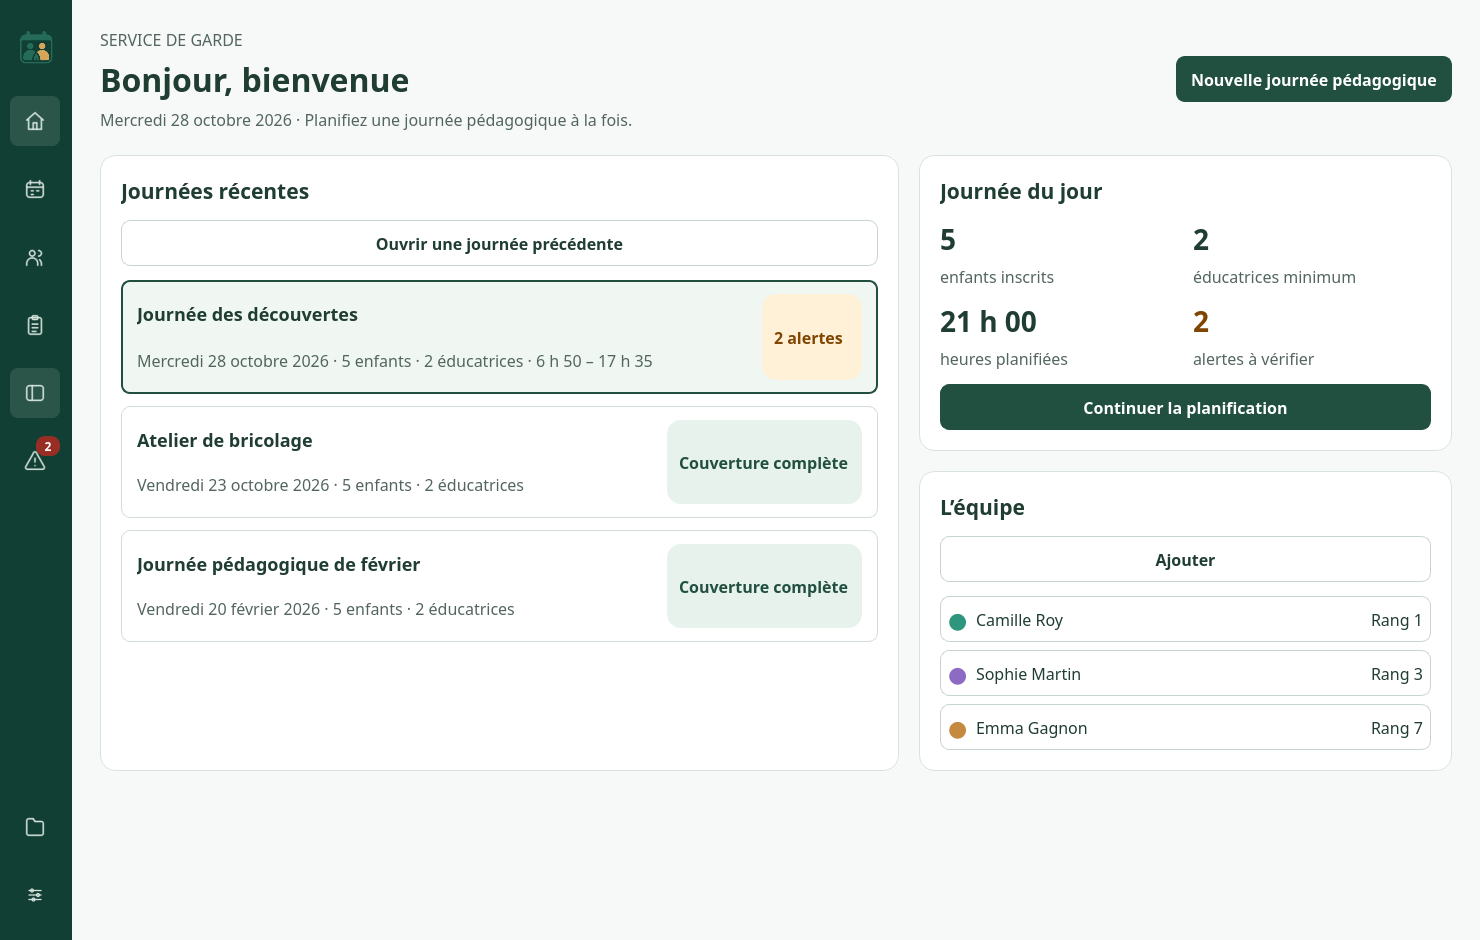
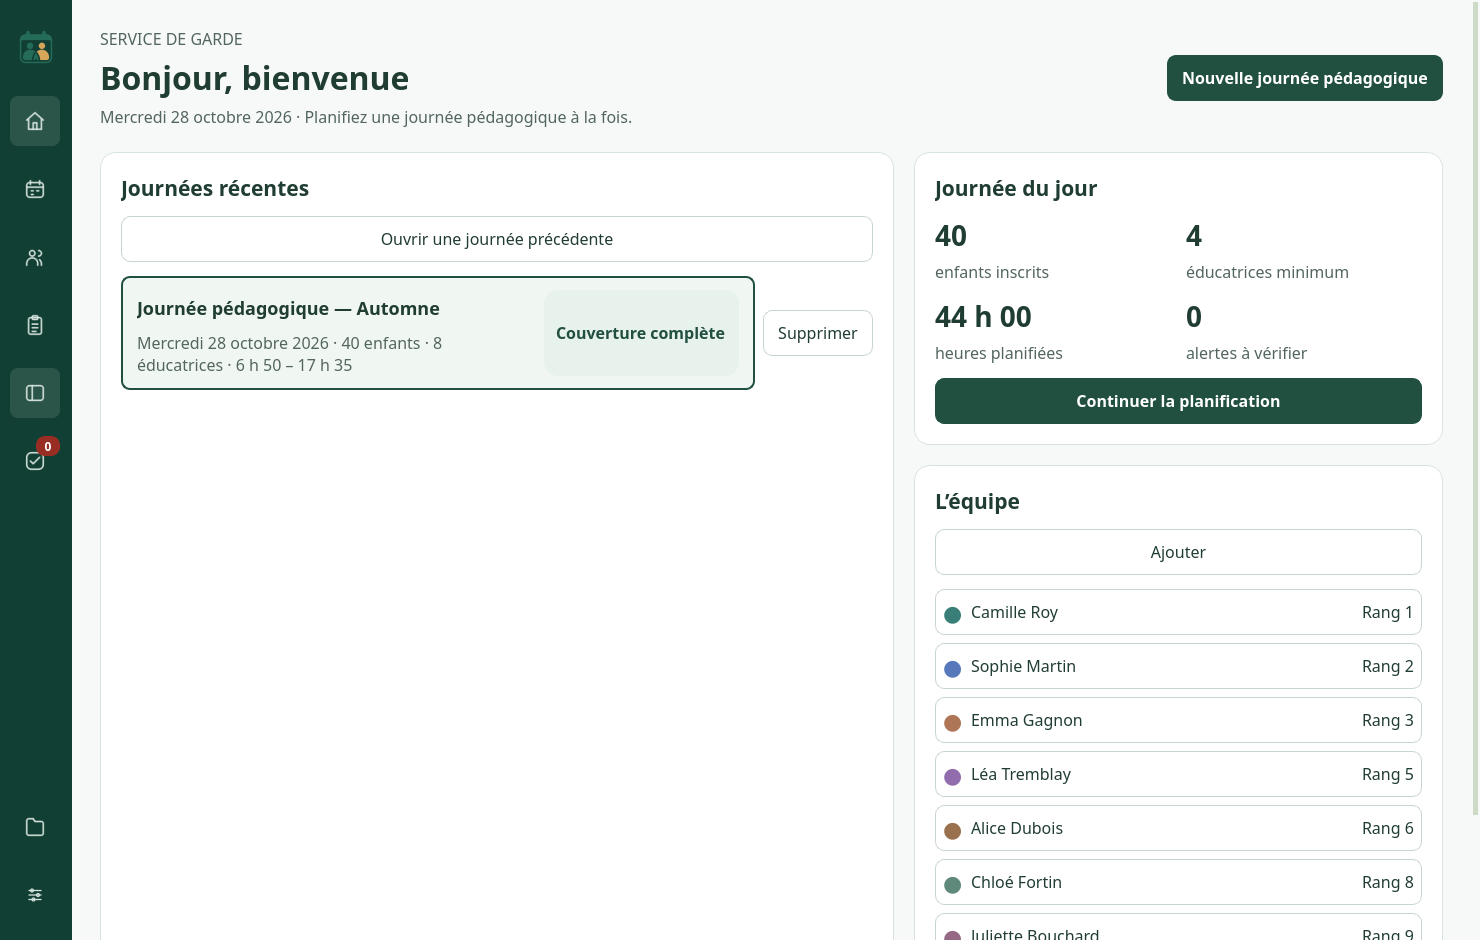
10 — Préparer la version 0.3.2, ses notes et ses aperçus conformes

diff --git a/gardeplan/__init__.py b/gardeplan/__init__.py
@@ -1,2 +1,2 @@
 """Planificateur — Service de garde : application de bureau locale."""
-__version__ = "0.3.1"
+__version__ = "0.3.2"

diff --git a/docs/GUIDE.md b/docs/GUIDE.md
@@ -15,7 +15,7 @@ L’équipe reste à gauche et le calendrier occupe le reste de l’écran. Les 
 1. Choisissez la **date exacte** avec les flèches ou le champ de date. Chaque date possède son propre horaire, même si deux journées tombent dans la même semaine.
 2. Cliquez sur le **+ de L’équipe**. Une couleur encore inutilisée est proposée automatiquement ; vous pouvez la changer dans le profil. Choisissez le **rang de 1 à 11** : le rang 1 est le plus ancien, et des rangs peuvent rester libres (1, 4, 9, par exemple). Aucun profil n’est renuméroté automatiquement.
 3. Saisissez les heures cibles, garanties et maximales **pour cette journée**. Un objectif vide signifie « Aucun objectif défini ». Précisez les disponibilités et absences si nécessaire.
-4. Cliquez sur **Inscriptions** et indiquez le nombre d’enfants. Le besoin est calculé pour le service entier. Le nom se modifie directement dans l’en-tête de la grille. Le minimum de deux éducatrices et le ratio configuré restent contrôlés.
+4. Cliquez sur **Inscriptions** et indiquez le nombre d’enfants. Le besoin additionne les minimums et ratios de chaque groupe. Le nom se modifie directement dans l’en-tête de la grille. Le minimum de deux éducatrices et le ratio configuré restent contrôlés.
 5. Ajoutez les quarts ou demandez une proposition automatique. L’interface gère uniquement les horaires.
 
 Une nouvelle date reprend les profils et paramètres utiles. Ses inscriptions et quarts restent vides ; les absences de l’ancienne date ne sont pas recopiées. Pour reprendre aussi un horaire complet, utilisez **Dossier → Dupliquer cette journée** et choisissez une date vide.
@@ -32,7 +32,7 @@ Un quart verrouillé est conservé pendant la génération ; déverrouillez-le d
 
 ## Ouverture, fermeture et relève
 
-Pour une journée ouverte de 7 h à 17 h 30, une éducatrice peut suffire de 6 h 50 à 7 h et de 17 h 20 à 17 h 35. Entre ces plages, prévoyez au moins deux éducatrices. Le ratio reste applicable jusqu’au départ des enfants : avec plus de vingt enfants présents, une seule éducatrice ne suffit pas. Les dix minutes de préparation avant l'ouverture et les cinq minutes après la fermeture sont des temps de présence rémunérés. Ils ne constituent pas de la couverture d'enfants.
+Pour une journée ouverte de 7 h à 17 h 30, chaque groupe exige au moins deux éducateurs de 6 h 50 à 17 h 35. Les dix minutes de préparation avant l’ouverture et les cinq minutes de fermeture sont des temps de présence rémunérés, distincts de la couverture des enfants. Pendant l’accueil, le besoin d’un groupe est le maximum de deux et du nombre d’enfants divisé par son ratio, arrondi au supérieur. Les pauses doivent être remplacées et les relèves comporter quinze minutes communes.
 
 Pour une relève à 12 h 30, l'éducatrice entrante peut commencer sa présence à 12 h 15 avec quinze minutes de préparation avant sa couverture de 12 h 30. L'éducatrice sortante reste présente pendant ces quinze minutes. Le besoin de couverture du groupe doit rester satisfait, même pendant les pauses et les relèves.
 
@@ -101,7 +101,7 @@ Toutes les éducatrices actives disposent d’une colonne, sans défilement hori
 
 **Vérifier (N)** ouvre les alertes. Cliquer sur une alerte ou l’activer au clavier sélectionne sa plage et fait défiler la grille et la bande de ratio. La validation continue même lorsque le panneau est fermé. Avec une journée valide, le panneau indique **Aucune alerte**.
 
-Les deux poignées de chaque quart sont visibles. Les pauses et le dîner indiquent leurs heures, leur durée et leur rémunération. Une pause payée compte dans le total rémunéré mais n’assure jamais la couverture des enfants. Un dépassement d’objectif est orange ; celui d’un maximum obligatoire est rouge. Un libellé précise toujours la situation.
+Les deux poignées de chaque quart sont visibles. Les pauses indiquent leurs heures, leur durée et leur rémunération. Les dîners restent masqués dans les blocs ; leur incidence sur la couverture et la paie est conservée. Une pause payée compte dans le total rémunéré mais n’assure jamais la couverture des enfants. Un dépassement d’objectif est orange ; celui d’un maximum obligatoire est rouge. Un libellé précise toujours la situation.
 
 ## Annuler et rétablir
 
@@ -150,28 +150,16 @@ Les inscriptions réutilisent la préparation par groupes de vingt enfants,
 en conservant les identifiants et les affectations existantes. Les périodes des
 groupes devenus inutiles sont fermées ; aucun quart n’est supprimé. La taille de
 préparation des groupes ne constitue pas un ratio réglementaire. Les règles de
-couverture globales, les heures d’ouverture et de fermeture ne sont pas changées
-par cette révision de la grille.
+couverture sont désormais appliquées à chaque groupe ; les heures d’ouverture et de fermeture sont conservées.
 
 
-## Règles de la version 0.3.1
+## Règles de la version 0.3.2
 
-Le minimum de présence est de **1** de 6 h 50 à 7 h, de **2** de 7 h à
-17 h 20, puis de **1** de 17 h 20 à 17 h 35. Pendant l’accueil, le besoin est
-le maximum de ce minimum et du nombre d’enfants divisé par le ratio, arrondi
-au supérieur. Avec 21 enfants encore présents à 17 h 20, deux éducatrices
-restent nécessaires. Les effectifs variables se règlent dans les périodes des
-groupes (Réglages → Organisation → Groupes des affectations).
+Chaque groupe conserve au moins deux éducateurs présents pendant toute son ouverture, avec deux personnes également pendant la préparation et la fermeture de ses locaux. Un ratio exigeant plus de personnel ou un minimum configuré plus élevé reste obligatoire. Aucune pause, même payée, ne couvre les enfants. Chaque relève conserve quinze minutes communes.
 
-Les dix minutes de préparation et les cinq minutes de fermeture restent
-rémunérées et distinctes de la couverture. Les pauses, même payées, ne couvrent
-jamais les enfants. Les relèves conservent leurs quinze minutes communes.
-Si les heures d’ouverture/fermeture changent, les plages allégées suivent
-l’ouverture aux enfants et les quinze dernières minutes de présence.
+Deux groupes ouverts toute la plage exigent au moins quatre personnes simultanées. Avec une limite individuelle de huit heures, quatre personnes ne suffisent pas pour couvrir la journée entière : prévoyez une équipe plus grande ou corrigez les périodes réellement ouvertes. Le logiciel signale cette impossibilité au lieu de générer un horaire invalide.
 
-Les anciens brouillons passent aux nouvelles règles et sont enregistrés comme
-une nouvelle version. Les anciens horaires publiés/archivés restent inchangés ;
-une modification ou une duplication crée un brouillon aux règles actuelles.
+Les anciennes versions publiées/archivées conservent les règles historiques ; les versions de travail, nouvelles journées et duplications adoptent les règles actuelles.
 
 La barre latérale présente Planning, Équipe, Inscriptions, Ratio et Vérification.
 Dossier et Réglages sont placés en bas. Annuler/Rétablir sont sur la ligne du
@@ -208,3 +196,14 @@ avant le retour à l’accueil.
 Les cartes s’empilent sur les petites fenêtres ; la page défile verticalement.
 Les notes de chaque version sont conservées dans [CHANGELOG.md](../CHANGELOG.md)
 et reprises dans les Releases GitHub.
+
+
+## Attribution des quarts et suppression — version 0.3.2
+
+Le générateur traite tous les groupes sans les fusionner. Chaque groupe doit respecter son ratio (initialement 1/20). Deux éducateurs minimum sont requis dans chaque groupe pendant toute sa plage, préparation et fermeture incluses ; un minimum de groupe supérieur reste applicable. Si des groupes demeurent ouverts avec des enfants à la fin de la journée, leur couverture reste nécessaire.
+
+La recherche attribue d’abord des heures au plus grand nombre de personnes possible, sans modifier les contraintes obligatoires. Elle limite ensuite les heures inutiles, puis privilégie le rang 1, suivi des rangs suivants : quarts continus, plus d’heures, fin plus tôt. Les rangs n’ont pas besoin d’être consécutifs. Les horaires verrouillés et les disponibilités peuvent empêcher l’ordre idéal ; les personnes sans heures sont nommées dans la proposition. Une recherche interrompue signale que les préférences ne sont pas toutes prouvées optimales.
+
+Le maximum quotidien est de 8 h rémunérées, tous les quarts cumulés. Les buffers payés et les pauses payées comptent ; les pauses non payées sont déduites. Un maximum individuel plus bas reste obligatoire. Un dépassement manuel est une erreur rouge et empêche de valider/publier ; le brouillon demeure sauvegardable pour correction.
+
+Sur l’accueil, **Supprimer** demande confirmation puis retire la journée de la liste. Ses anciennes versions et les profils restent conservés. La suppression survit aux sauvegardes et à leur import. Pour reprendre cette date, créez une nouvelle journée à cette date, ou restaurez une version dans l’historique du dossier. La migration au format SQLite 3 crée une copie de sécurité avant toute modification du format ; ne remplacez pas le dossier `donnees` lors d’une mise à jour.

diff --git a/docs/LIVRAISON_0_3_2.md b/docs/LIVRAISON_0_3_2.md
@@ -1,0 +1,83 @@
+# Livraison 0.3.2
+
+## Changements
+
+1. Plafond de 8 h rémunérées par personne et par jour : validation, génération, compteurs et formulaires. Les versions historiques conservent leurs règles ; les brouillons adoptent les règles actuelles.
+2. Génération de tous les groupes, sans fusion dans le solveur. Le minimum de deux éducateurs et le ratio propre à chaque groupe restent obligatoires ; les alertes distinguent les groupes et le résumé signale aussi une mauvaise répartition malgré un total suffisant.
+3. Retrait des annotations superposées à la grille vide.
+4. Attribution d’heures au plus grand nombre de personnes possible ; limitation des heures inutiles ; priorité aux rangs 1, 2, etc. pour les quarts continus, davantage d’heures et une fin plus tôt. Les profils équivalents reçoivent obligatoirement les horaires dans cet ordre, même si la recherche n’achève pas toutes ses optimisations.
+5. Bouton Supprimer pour chaque journée de l’accueil. Confirmation, historique conservé, suppression persistante dans les sauvegardes et accès aux profils après suppression de la dernière journée.
+6. Scénarios de vérification adaptés au nouveau plafond ; diagnostic du logiciel compilé étendu aux groupes, à l’équipe, à l’ordre des rangs et aux huit heures.
+
+7. Correction de la date devenue invisible avec NoButtons et un style Qt 6.12.
+8. Application de la dernière précision : deux éducateurs par groupe à tout moment, y compris préparation/fermeture ; aperçu Inscriptions aligné sur ce calcul.
+
+9. Amorçage du solveur par une proposition vérifiée dans le cas de deux équipes continues par groupe ; le budget d’heures de la meilleure proposition reste conservé si une phase dépasse son délai.
+
+Chaque étape correspond à un commit. La préparation de la release et la consignation des preuves sont des commits distincts.
+
+## Hypothèses retenues
+
+- « 8 h par jour » signifie 480 minutes rémunérées cumulées : buffers payés et pauses payées compris ; pauses non rémunérées déduites. La présence entre début et fin peut donc dépasser huit heures uniquement si des interruptions non payées sont saisies.
+- Minimum strict de deux éducateurs par groupe ouvert, préparation et fermeture incluses. Le ratio initial de 1/20 ou un minimum configuré plus élevé peut imposer davantage de personnes. Deux groupes ouverts toute la journée nécessitent quatre personnes simultanées ; quatre salariés limités à huit heures ne peuvent donc pas suffire sur 6 h 50–17 h 35.
+- Les rangs peuvent être non consécutifs. La priorité porte sur des horaires réalisables : disponibilités, garanties, maximums, pauses, couverture et quarts verrouillés passent avant les préférences.
+- La participation est optimisée sans créer un droit à un nombre fixe d’heures. Les personnes sans heures sont nommées ; l’interface précise si le délai ne permet pas de prouver l’optimalité des préférences.
+- Supprimer retire une date de la liste sans effacer ses snapshots. Une création explicite à cette date ou une restauration réactive la date. Modifier les profils ne réactive pas une journée supprimée.
+- SQLite passe au format 3 avec copie de sécurité des formats 1/2 avant migration. Les suppressions sont conservées à l’import/export. Utilisez la nouvelle application pour ouvrir la base migrée.
+
+## Vérification et limites
+
+La suite Qt6/OR-Tools comprend 260 tests et six sous-cas de pagination. Les contrôles ciblés des nouvelles règles, groupes et profils passent localement ; les résultats complets natifs sont consignés avant publication. Dix tests contrôlent la préparation de release et les notes de version. Les résultats natifs et le SHA exact sont consignés dans [État des vérifications](ETAT_VERIFICATION.md) avant la livraison publique.
+
+Les nouvelles vérifications portent sur les 480/481 minutes, les horaires coupés, les pauses payées/non payées, la couverture de chaque groupe, les groupes et quarts verrouillés conservés, la participation, les rangs libres, les indisponibilités, l’impossibilité avec huit heures, la suppression, la restauration, les sauvegardes et la migration.
+
+Le solveur travaille sur des candidats à bornes métier exactes et à départs intermédiaires ; il ne prouve pas l’impossibilité de tous les découpages imaginables à la minute. Un délai peut laisser des préférences non optimales, ce qui est signalé. Aucune proposition comportant une erreur bloquante n’est appliquée.
+
+Aucune mise à jour automatique ni signature DeveloperID/notarisation Mac n’est ajoutée. Les essais sur le poste de l’école, le lecteur d’écran et l’imprimante physique restent à réaliser. La mise en page du PDF est conservée ; son exemple est renouvelé avec les nouvelles règles.
+
+## Fichiers modifiés depuis 0.3.1
+
+- `.github/release-request.json`
+- `CHANGELOG.md`
+- `README.md`
+- `docs/ETAT_VERIFICATION.md`
+- `docs/GUIDE.md`
+- `docs/LIVRAISON_0_3_2.md`
+- `docs/accueil.png`
+- `docs/apercu-interface.png`
+- `docs/exemple-horaire-pedagogique.pdf`
+- `docs/planification-0.3.2.png`
+- `gardeplan/__init__.py`
+- `gardeplan/alerts.py`
+- `gardeplan/coverage.py`
+- `gardeplan/daily.py`
+- `gardeplan/hours.py`
+- `gardeplan/installation_check.py`
+- `gardeplan/models.py`
+- `gardeplan/optimizer.py`
+- `gardeplan/optimizer_priorities.py`
+- `gardeplan/planning.py`
+- `gardeplan/staffing.py`
+- `gardeplan/storage.py`
+- `gardeplan/ui/calendar.py`
+- `gardeplan/ui/date_field.py`
+- `gardeplan/ui/enrolment.py`
+- `gardeplan/ui/forms.py`
+- `gardeplan/ui/home.py`
+- `gardeplan/ui/main_window.py`
+- `gardeplan/validation.py`
+- `pyproject.toml`
+- `scripts/prepare_release.py`
+- `scripts/test_prepare_release.py`
+- `tests/test_coverage.py`
+- `tests/test_daily.py`
+- `tests/test_daily_limit.py`
+- `tests/test_daily_ui.py`
+- `tests/test_date_field.py`
+- `tests/test_day_deletion.py`
+- `tests/test_generation_priorities.py`
+- `tests/test_group_generation.py`
+- `tests/test_home_data.py`
+- `tests/test_schedule_ui.py`
+- `tests/test_staffing_policy.py`
+- `tests/test_two_per_group.py`

diff --git a/README.md b/README.md
@@ -4,7 +4,7 @@
 
 <h1 align="center">Planificateur — Service de garde</h1>
 
-<p align="center"><strong>Version 0.3.1 · Portable, sans installation</strong></p>
+<p align="center"><strong>Version 0.3.2 · Portable, sans installation</strong></p>
 
 <p align="center">
   <strong>Des horaires clairs pour chaque journée pédagogique.</strong><br>
@@ -12,18 +12,18 @@
 </p>
 
 <p align="center">
-  <a href="https://github.com/GraphicShack/Planificateur-Service-de-garde/releases/download/v0.3.1/Planificateur-SDG-0.3.1-Windows-x64-Portable.zip">Télécharger pour Windows</a>
+  <a href="https://github.com/GraphicShack/Planificateur-Service-de-garde/releases/download/v0.3.2/Planificateur-SDG-0.3.2-Windows-x64-Portable.zip">Télécharger pour Windows</a>
   &nbsp;·&nbsp;
-  <a href="https://github.com/GraphicShack/Planificateur-Service-de-garde/releases/download/v0.3.1/Planificateur-SDG-0.3.1-macOS-arm64-Portable.zip">Télécharger pour Mac</a>
+  <a href="https://github.com/GraphicShack/Planificateur-Service-de-garde/releases/download/v0.3.2/Planificateur-SDG-0.3.2-macOS-arm64-Portable.zip">Télécharger pour Mac</a>
   &nbsp;·&nbsp;
   <a href="docs/GUIDE.md">Guide d’utilisation</a>
 </p>
 
 ![Aperçu du planificateur avec des données fictives](docs/apercu-interface.png)
 
-La **version 0.3.1** s’ouvre sur un accueil réunissant les journées récentes, le résumé d’aujourd’hui et l’équipe. La création d’une journée mène directement aux inscriptions. La grille reste organisée par groupes et sous-colonnes d’éducatrices. Les icônes Équipe, Inscriptions et Vérification partagent le panneau gauche ; le ratio est masquable et les alertes sont comptées dans un badge. Annuler et Rétablir sont alignés avec le nom de la journée. Les dîners restent calculés, sans être affichés dans les blocs.
+La **version 0.3.2** s’ouvre sur un accueil réunissant les journées récentes, le résumé d’aujourd’hui et l’équipe. La création d’une journée mène directement aux inscriptions. La grille reste organisée par groupes et sous-colonnes d’éducatrices. Les icônes Équipe, Inscriptions et Vérification partagent le panneau gauche ; le ratio est masquable et les alertes sont comptées dans un badge. Annuler et Rétablir sont alignés avec le nom de la journée. Les dîners restent calculés, sans être affichés dans les blocs.
 
-Une éducatrice peut suffire de **6 h 50 à 7 h** et de **17 h 20 à 17 h 35**. Le minimum reste de deux entre ces plages ; le ratio configuré (initialement 1/20) reste obligatoire pendant l’accueil. Les anciennes versions publiées et archivées conservent leurs règles. [Détails de la livraison](docs/LIVRAISON_0_3_1.md) · [Notes de version](CHANGELOG.md).
+Chaque groupe ouvert exige **au moins deux éducateurs présents en tout temps**, de la préparation à la fermeture, avec remplacement pendant les pauses et chevauchement des relèves. Le ratio configuré (initialement 1/20) peut en exiger davantage. La génération attribue des heures au plus grand nombre de personnes possible, puis privilégie le rang 1 et les suivants : quarts continus, davantage d’heures et fin plus tôt, en limitant les heures inutiles. Le plafond quotidien est de **8 h rémunérées**, buffers compris et pauses non rémunérées déduites. Les anciennes versions publiées et archivées conservent leurs règles. [Détails de la livraison](docs/LIVRAISON_0_3_2.md) · [Notes de version](CHANGELOG.md).
 
 [Voir la couverture et les alertes](docs/couverture-journee.png)
 
@@ -39,7 +39,7 @@ Aujourd’hui, le planificateur se concentre sur une journée pédagogique à la
 
 - **Choisir une journée** dans un champ de date lisible, utilisable au clavier, avec des flèches précédent/suivant.
 - **Organiser l’équipe** : une couleur attribuée à chaque nouvelle éducatrice, des heures journalières et un rang de 1 à 11. Les rangs intermédiaires peuvent rester libres.
-- **Saisir les inscriptions** et lire immédiatement le minimum global d’éducatrices nécessaire.
+- **Saisir les inscriptions** et lire immédiatement le besoin total, avec deux éducateurs minimum par groupe.
 - **Ajuster les quarts à la minute** par glisser-déposer, redimensionnement ou saisie exacte, avec pauses et temps de préparation.
 - **Vérifier la couverture** et demander une proposition automatique respectant les contraintes et les quarts verrouillés.
 - **Enregistrer et retrouver les horaires** depuis l’icône Dossier de la barre latérale : ouverture, duplication, historique et sauvegardes locales.

diff --git a/CHANGELOG.md b/CHANGELOG.md
@@ -4,6 +4,24 @@ Chaque release reprend la section correspondant à sa version. Une section doit
 être ajoutée ici avant de publier ; le contrôle de publication refuse une
 version sans notes. Les téléchargements sont dans les [Releases GitHub](https://github.com/GraphicShack/Planificateur-Service-de-garde/releases).
 
+## [0.3.2] — 2026-10-28
+
+### Génération et règles
+
+- Tous les groupes sont conservés pendant la recherche et couverts selon leur propre ratio de 1 pour 20, configurable. Minimum strict de deux éducateurs dans chaque groupe ouvert, préparation et fermeture comprises, sans plage allégée dans les nouvelles journées. Un surplus dans un groupe ne masque plus un groupe sans personnel.
+- Attribution d’heures au plus grand nombre de profils actifs possible, puis priorité aux rangs 1, 2, etc., même avec des rangs intermédiaires libres : quarts continus, davantage d’heures et fin plus tôt, en limitant les heures inutiles.
+- Maximum obligatoire de 8 h rémunérées par personne et par jour, tous quarts cumulés et buffers compris ; les pauses non payées sont déduites. Les limites individuelles plus basses sont conservées.
+- Les personnes sans heures sont nommées dans la proposition. Les contraintes incompatibles avec le plafond sont expliquées ; aucun résultat invalide n’est appliqué.
+- Les affectations verrouillées, les disponibilités, les pauses et les quinze minutes de relève restent obligatoires. Le logiciel précise quand le délai empêche de prouver l’optimalité des préférences.
+
+### Interface et données
+
+- Bouton Supprimer sur chaque journée de l’accueil, avec confirmation. Les versions sont conservées ; la date reste supprimée après réouverture et import/export de sauvegarde. Une restauration ou une création explicite permet de réutiliser la date.
+- Les profils restent accessibles après suppression de la dernière journée. Modifier un profil ne fait pas réapparaître la journée supprimée.
+- Retrait des annotations « Votre calendrier commence ici » et du texte superposé à la grille vide.
+- Format SQLite 3 avec copie de sécurité avant migration ; les anciennes versions publiées/archivées gardent leurs règles et leur contenu.
+- Contrôle du logiciel portable étendu aux groupes, à l’attribution à toute l’équipe, à l’ordre des rangs et au plafond de huit heures.
+
 ## [0.3.1] — 2026-10-28
 
 ### Ajouts
